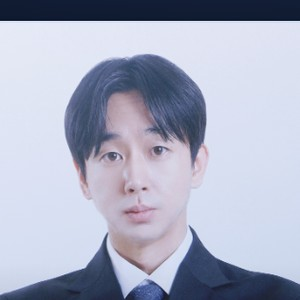
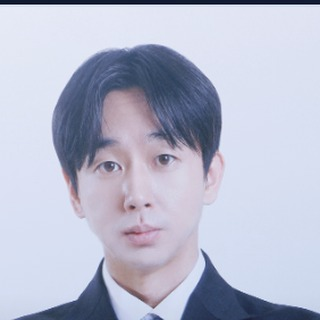
fix(class): 자료가 안 뜨던 문제 + 아바타 크롭
- 코드 입력창 HTML이 실제로 삽입되지 않았는데 스크립트가 그 요소를 참조해,
  null 참조로 스크립트 전체가 중단되고 자료 목록까지 렌더되지 않았다.
  HTML·스타일을 넣고, 요소가 없어도 자료 렌더는 계속되도록 가드를 추가했다.
- 아바타: 프로필 카드 프레임(둥근 모서리·테두리)이 함께 잘려 원형 안에서
  위아래가 잘린 것처럼 보였다. 얼굴 중심 기준 정사각으로 다시 잘랐다.

Changed region(s): [[0.0, 0.12, 1.0, 1.0], [0.0, 0.0, 1.0, 0.09], [0.66, 0.93, 0.69, 0.96]]

diff --git a/public/class/index.html b/public/class/index.html
@@ -98,6 +98,22 @@
   footer{margin-top:34px;padding-top:18px;border-top:1px solid var(--line);
     color:var(--sub);font-size:.82rem;display:flex;justify-content:space-between;flex-wrap:wrap;gap:8px}
   footer a{color:var(--accent);text-decoration:none}
+  .codebox{margin-top:18px;background:var(--card);border:1px solid var(--line);
+    border-radius:var(--radius);padding:14px 16px}
+  .cb-head{display:flex;flex-direction:column;gap:2px;margin-bottom:10px}
+  .cb-head span{font-weight:700;font-size:.94rem}
+  .cb-head small{color:var(--sub);font-size:.8rem}
+  .cb-row{display:flex;gap:8px;flex-wrap:wrap}
+  .cb-row input{flex:1;min-width:150px;font:inherit;font-size:.9rem;color:var(--ink);
+    background:var(--bg);border:1px solid var(--line);border-radius:9px;padding:9px 12px}
+  .cb-row input:focus{outline:none;border-color:var(--accent)}
+  .cb-row button{font:inherit;font-size:.88rem;font-weight:600;cursor:pointer;border-radius:9px;
+    border:1px solid var(--accent);background:var(--accent);color:#06222a;padding:9px 16px}
+  .cb-row button.ghost{background:transparent;color:var(--sub);border-color:var(--line)}
+  .cb-row button:hover{filter:brightness(1.08)}
+  #codeMsg{margin-top:8px;font-size:.83rem;color:var(--sub);min-height:1em}
+  #codeMsg.ok{color:#3fb950}
+  #codeMsg.bad{color:#f85149}
   .empty{color:var(--sub);font-size:.9rem;padding:14px 2px}
   @media (max-width:520px){ .avatar{width:64px;height:64px} }
 </style>
@@ -120,6 +136,19 @@
   </header>
 
   <main id="app"></main>
+
+  <div class="codebox">
+    <div class="cb-head">
+      <span>🔑 수업 코드가 있나요?</span>
+      <small>코드를 넣으면 해당 과정 자료가 열립니다</small>
+    </div>
+    <div class="cb-row">
+      <input id="code" type="text" placeholder="예: kdt2026" autocomplete="off" spellcheck="false">
+      <button id="apply">열기</button>
+      <button id="clear" class="ghost" style="display:none">코드 지우기</button>
+    </div>
+    <p id="codeMsg"></p>
+  </div>
 
   <div class="note">
     <b>안내</b> · 과정 제목을 누르면 자료가 펼쳐집니다. 자료는 수업 진행에 따라 계속 추가·수정되니
@@ -204,6 +233,8 @@ function refreshClearBtn() {
   $("#code").value = savedCode();
 }
 
+// 코드 입력 UI가 없더라도 자료 렌더는 반드시 동작해야 한다(요소 참조로 스크립트가 죽지 않게).
+if ($("#apply") && $("#code") && $("#clear")) {
 $("#apply").onclick = async () => {
   const code = $("#code").value.trim();
   const msg = $("#codeMsg");
